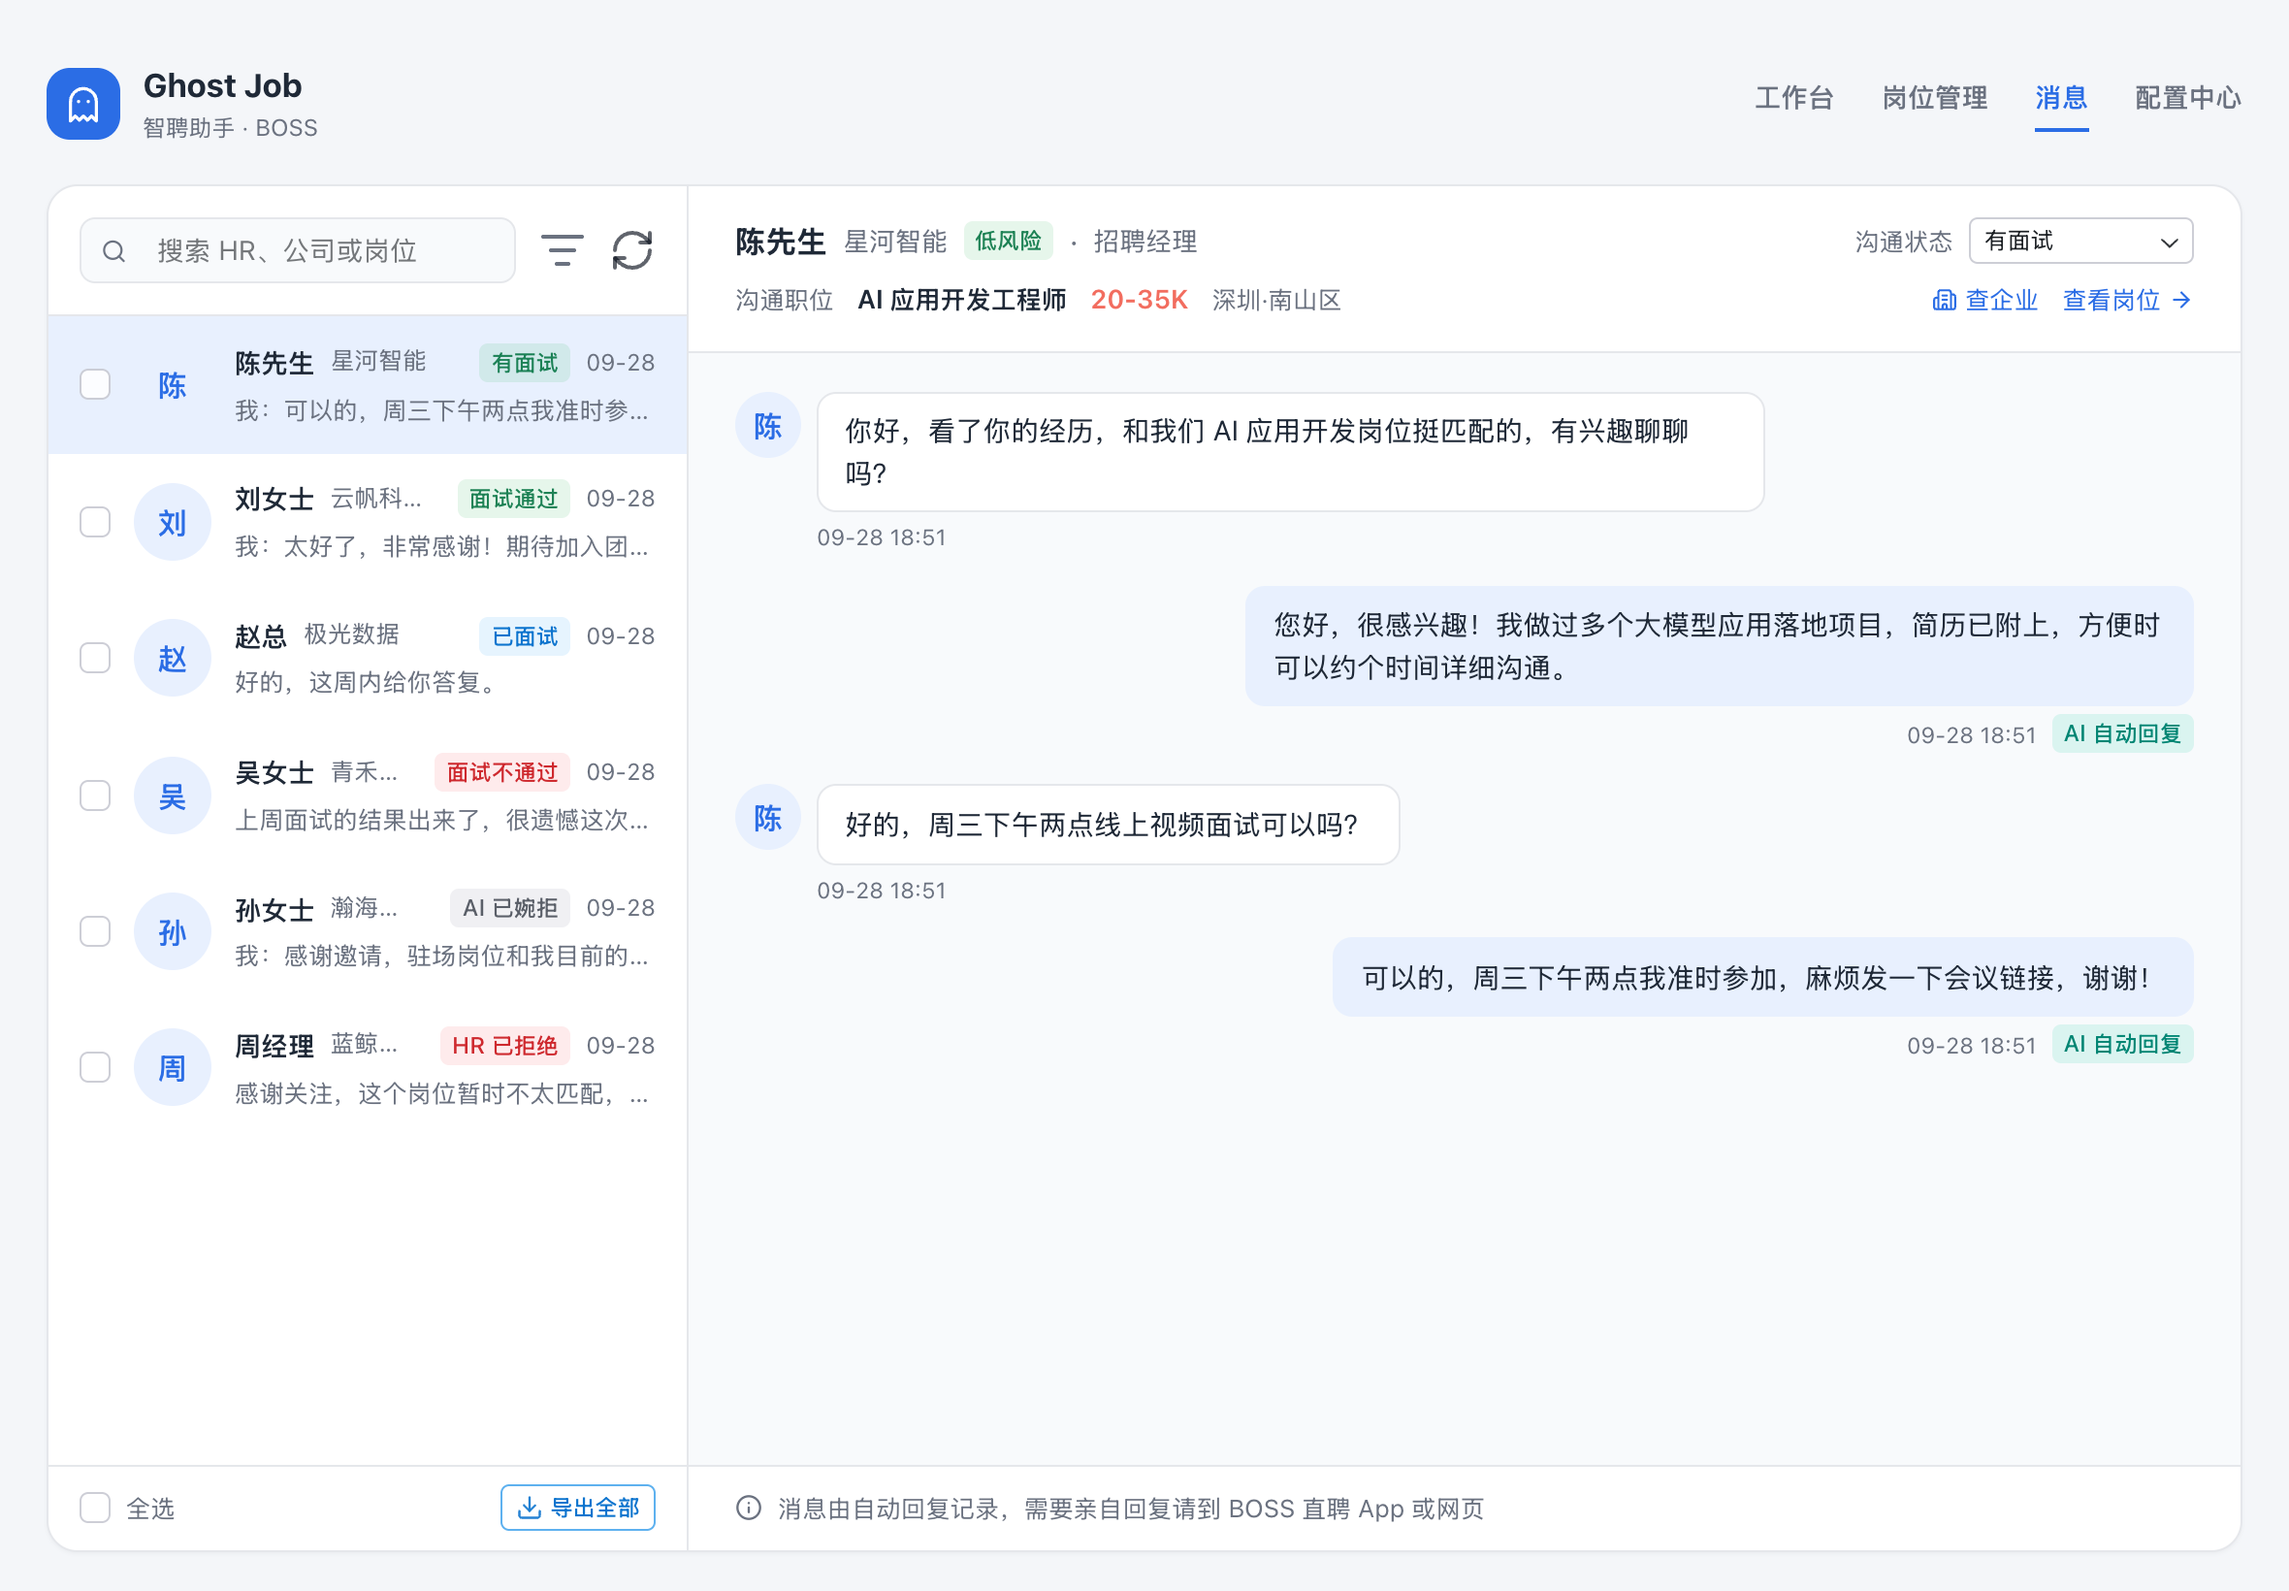
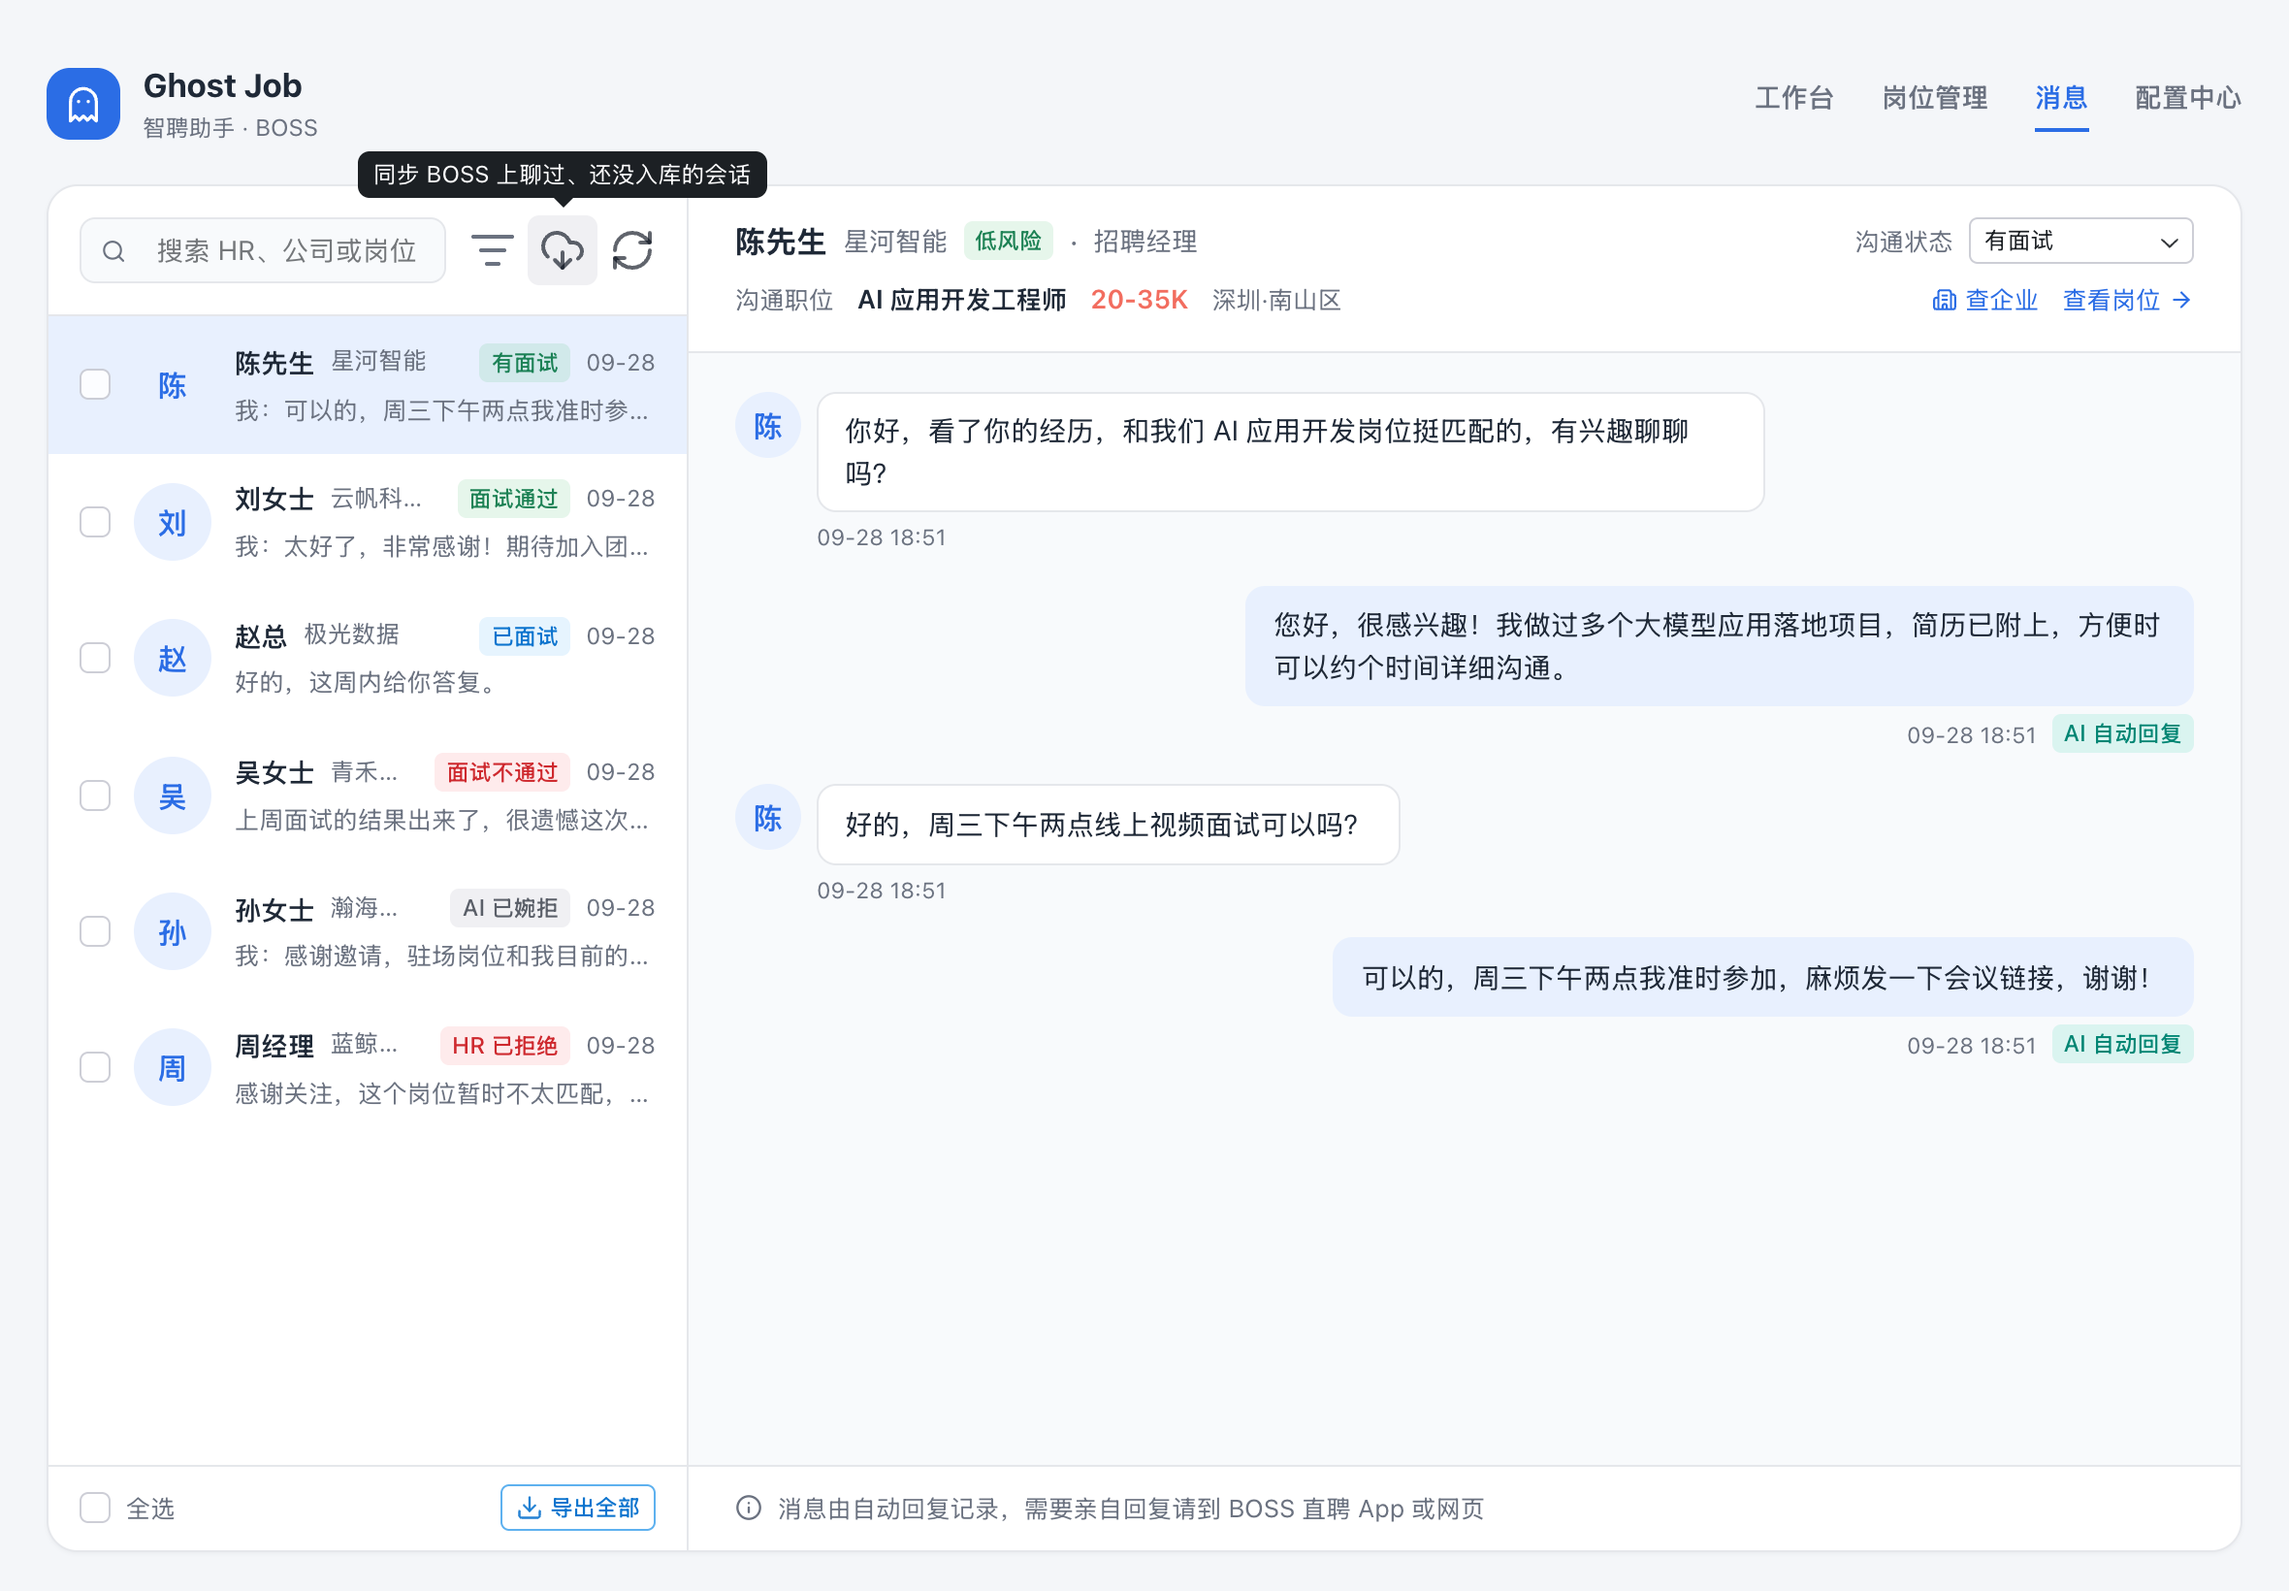
docs: README 补充会话同步说明与 v0.6.2 升级须知

Changed region(s): [[0.1547, 0.0933, 0.3403, 0.1866]]

diff --git a/README.md b/README.md
@@ -52,7 +52,8 @@
 - **匹配度过滤**：只投递匹配度达标的岗位，把每天有限的沟通次数花在刀刃上
 - **像真人一样投递**：随机停顿、分批休息，每天节奏略有不同，降低账号风险
 - **AI 自动回复**：HR 发来消息时，AI 结合你的简历和岗位信息回复，HR 索要简历时自动发送附件简历，只在白天的回复时段工作；HR 主动找你的新岗位也会按求职条件判断并记录
-- **消息记录**：和 HR 的聊天按会话集中查看，哪些是 AI 自动回复的一目了然
+- **消息记录**：和 HR 的聊天按会话集中查看，哪些是 AI 自动回复的一目了然；刚投递的会话自动记录，几千个会话也能流畅切换
+- **同步历史会话**：一键把 BOSS 上以前聊过的会话和聊天记录同步进来，对应岗位一并记录，方便集中复盘
 - **沟通状态**：AI 识别到面试邀请会自动标记「有面试」，HR 拒绝、AI 婉拒也会自动标记；面试后可以手动标记「已面试」「面试通过」「面试不通过」，并按状态筛选会话
 - **多种大模型可选**：默认使用 DeepSeek，也可以接入通义千问、Kimi、智谱、OpenAI 或本地 Ollama
 - **查企业**：一键读取公司的工商信息，上网搜索欠薪、裁员、失信等负面信息，AI 给出低 / 中 / 高风险评估和依据，风险标签直接显示在岗位和会话列表里
@@ -225,11 +226,20 @@ HR 发来的消息和 AI 的回复都会显示在运行日志里。如果是 HR 
 
 打开 **消息** 可以查看和每位 HR 的聊天记录：
 
-- 左侧是会话列表，支持按 HR、公司或岗位搜索；每个会话显示沟通状态标签，有面试、面试通过为绿色，面试不通过、HR 已拒绝为红色，已面试为蓝色，AI 已婉拒为灰色
+- 自动回复运行时，新出现的会话（比如刚投递、BOSS 替你发了打招呼的）会自动记录进来，不用等 HR 回复
+- 左侧是会话列表，支持按 HR、公司或岗位搜索，点搜索框里的 × 清空；每个会话显示沟通状态标签，有面试、面试通过为绿色，面试不通过、HR 已拒绝为红色，已面试为蓝色，AI 已婉拒为灰色。列表先显示最近的会话，往下滚动自动加载更多
 - 点击搜索框旁的筛选按钮，可以只看某一种沟通状态，选「无状态」查看还没有任何状态的会话，或者选「所有面试」查看有面试、已面试、面试通过、面试不通过的会话
 - 右侧是聊天内容和沟通的职位，AI 自动回复的消息会单独标注；右上角的「沟通状态」下拉可以手动修改当前会话的状态，选「无」即清除
 - 会话顶部点击「查企业」，查看这家公司的工商信息、网上负面信息和 AI 风险评估，与岗位管理里的查企业共用结果；查过的公司在会话列表里显示风险标签
 - 列表底部点击「导出全部」，把所有会话导出为 JSON，每个会话包含 HR、公司、岗位、沟通状态和完整的聊天记录；勾选会话后点击「导出」，只导出勾选的会话
+
+**同步历史会话**：点击搜索框旁的同步按钮，把 BOSS 上以前聊过、还没记录下来的会话和聊天记录同步进来：
+
+- 对应的岗位也会记录到岗位管理：新岗位只按岗位筛选里的关键词判断，其余标为「合适 · 待 AI 分析」，需要时在岗位管理里勾选做 AI 分析
+- 同步只读取、不回复，每个会话之间会停顿几秒；会话多时要一段时间，可以随时停止，下次点同步会从剩下的继续
+
+> [!WARNING]
+> 同步会连续读取大量会话，建议先在工作台停止自动投递和自动回复再同步，避免同一时间访问 BOSS 过于频繁，降低账号被风控的风险。自动投递或自动回复运行时无法开始同步，同步时也无法开始投递或开启自动回复。
 
 ![消息](assets/screenshots/messages.png)
 
@@ -238,8 +248,8 @@ HR 发来的消息和 AI 的回复都会显示在运行日志里。如果是 HR 
 **会重复投递同一个岗位吗？**
 不会。看过的岗位都会记录下来，再次遇到同一个岗位（职位相同，或招聘标题、公司、HR 都相同）会直接跳过，不再重复调用 AI；之前已经沟通过的岗位也会跳过。运行日志会统计本次投递、重复和跳过的数量。
 
-**从 v0.5.x 升级到 v0.6.0 后打不开岗位管理或无法投递？**
-v0.6.0 为查企业调整了本地数据结构。请升级到 v0.6.1，首次启动时会自动补齐，原有数据全部保留；旧岗位第一次点「查企业」时会多打开一次岗位详情页查找公司。
+**从 v0.5.x 升级后打不开岗位管理或无法投递？**
+v0.6.0 为查企业调整了本地数据结构，v0.6.1 首次启动时会自动补齐，原有数据全部保留。v0.6.2 起不再包含这个自动补齐：从 v0.5.x 升级请先安装 [v0.6.1](https://github.com/InfernalAzazel/ghost-job/releases/tag/v0.6.1) 打开一次，再升级到最新版；已经用过 v0.6.1 的直接升级即可。
 
 **从 v0.1.0 升级后打不开岗位管理或无法投递？**
 v0.2.0 调整了本地数据结构。升级前请先退出 Ghost Job，删除用户目录下的 `.ghost-job/ghost-job.db`，再打开新版本，重新填写 API Key、求职配置并上传简历。Chrome 里的 BOSS 直聘登录状态不受影响。
